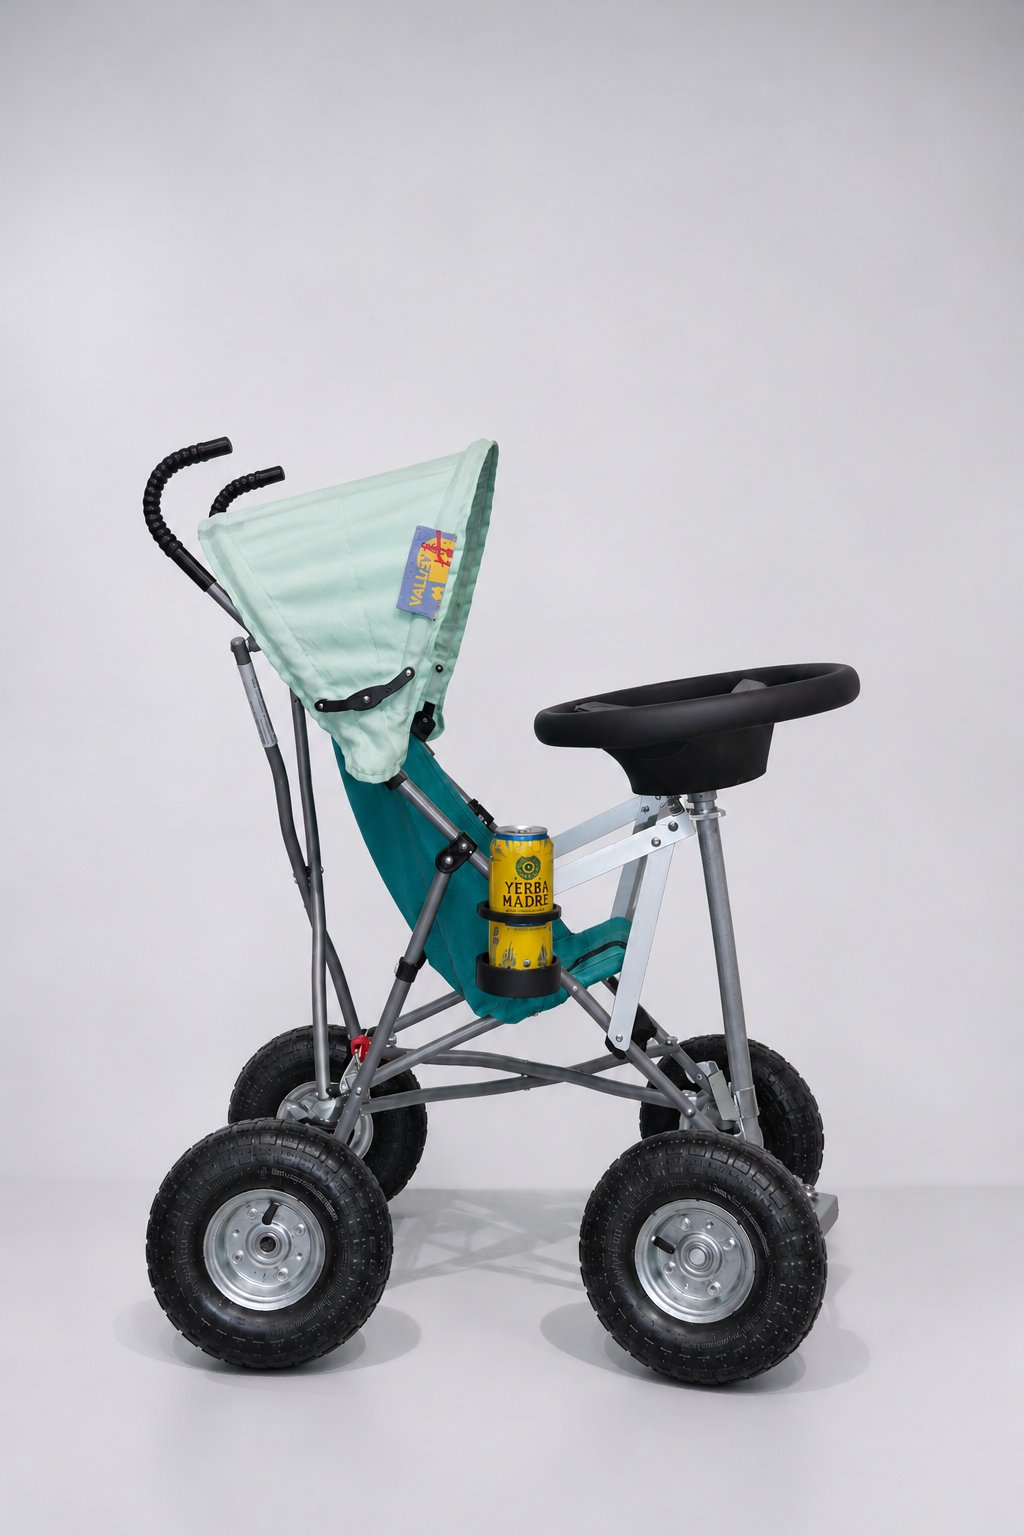
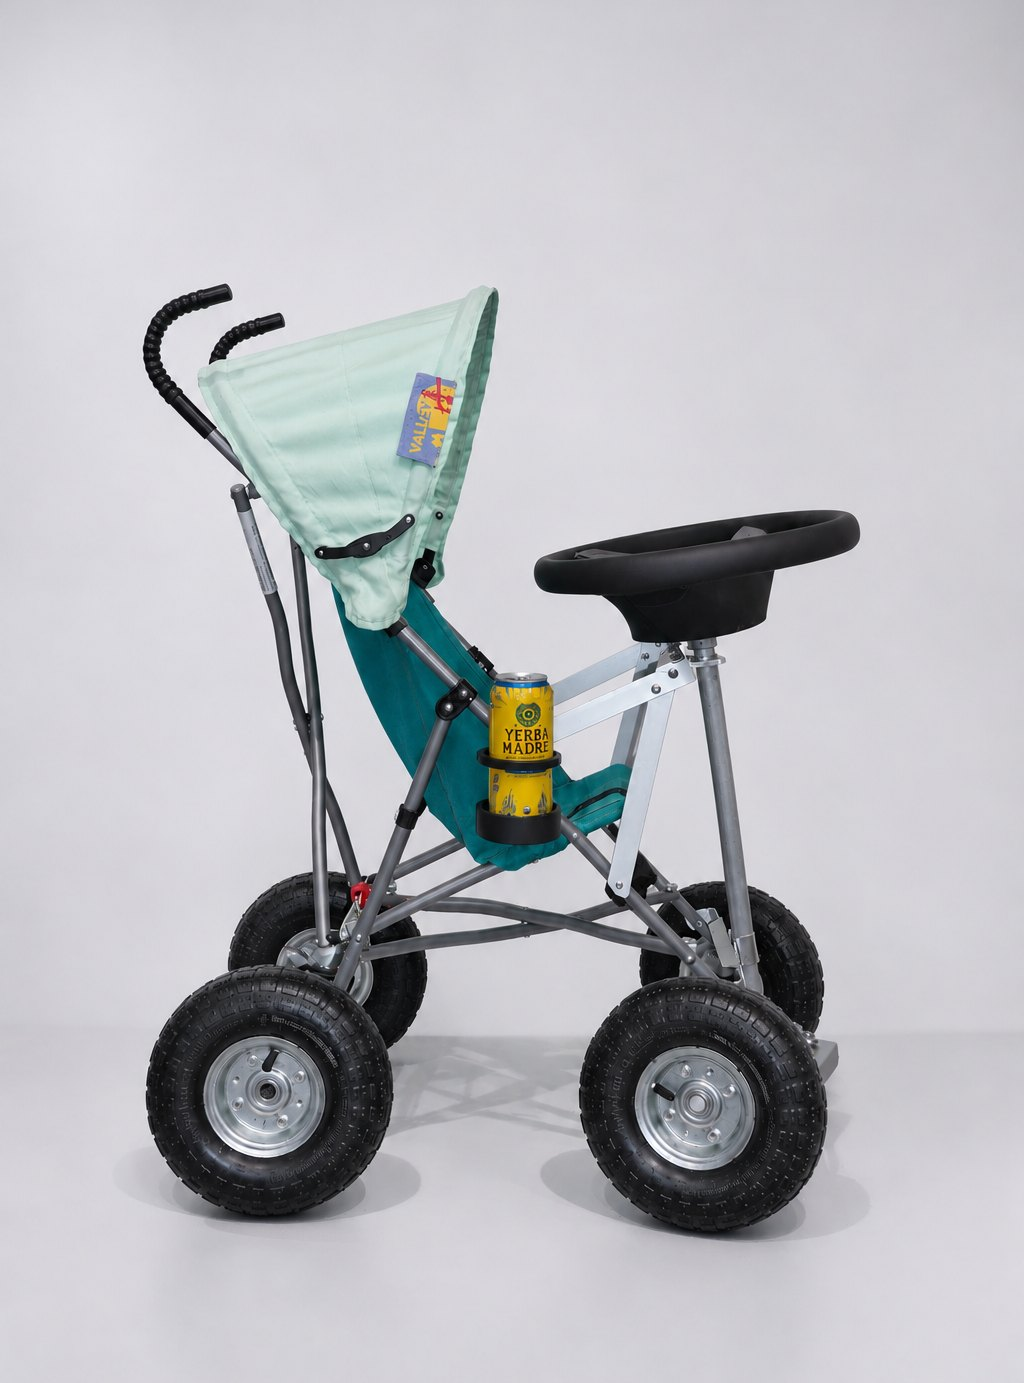
Selected Works: narrower centred grid; crop top of Manchild tile
Claude-Session: https://claude.ai/code/session_01ELhdABDRcghfKyptDK2XUK

Changed region(s): [[0.125, 0.1866, 0.8438, 0.9328], [0.0, 0.0, 0.125, 0.0622], [0.8438, 0.0, 1.0, 0.0311]]

diff --git a/css/site.css b/css/site.css
@@ -169,6 +169,9 @@ img { display: block; width: 100%; height: 100%; object-fit: cover; }
 }
 .extra-link:hover { color: var(--accent); }
 
+/* SELECTED WORKS (no list beside it): narrower, centred, white space on each side */
+.work-body:not(.with-list) .grid { max-width: 1080px; margin: 0 auto; }
+
 /* Masonry grid: 3 side-by-side columns; each tile keeps its image's shape.
    Columns are built by js/common.js. */
 .grid, .project-photos, .masonry {

diff --git a/js/image-sizes.js b/js/image-sizes.js
@@ -398,7 +398,7 @@ const IMAGE_SIZES = {
 ],
 "assets/img/work/manchild/manchild-cover.jpg": [
 1024,
-1536
+1383
 ],
 "assets/img/work/manchild/manchild-featured.jpg": [
 1800,
